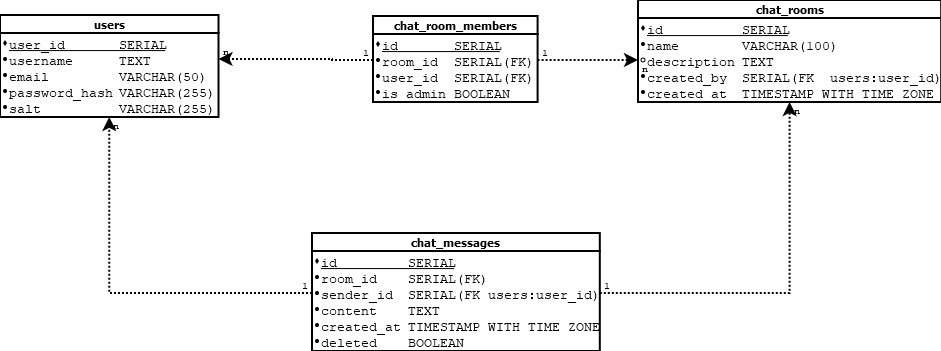
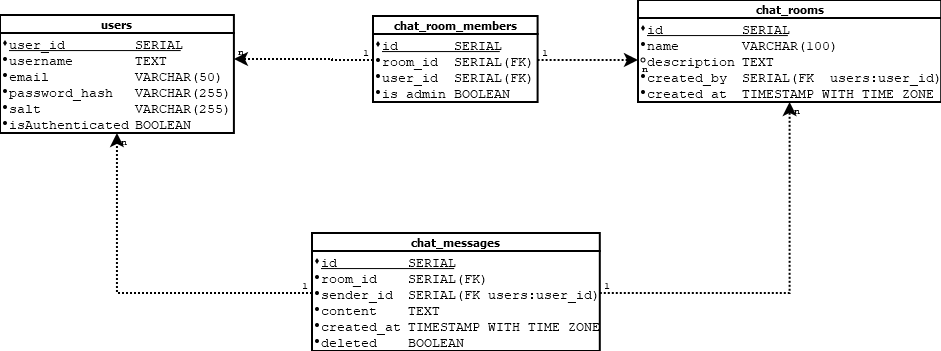
モデル定義

Changed region(s): [[0.0, 0.0285, 0.2774, 0.4274], [0.0925, 0.057, 0.1541, 0.0855]]

diff --git a/backend/src/main/java/com/example/chat_webapp/model/UsersModel.java b/backend/src/main/java/com/example/chat_webapp/model/UsersModel.java
@@ -1,0 +1,71 @@
+package com.example.chat_webapp.model;
+
+import jakarta.persistence.*;
+
+import java.security.NoSuchAlgorithmException;
+import java.security.spec.InvalidKeySpecException;
+import java.util.Base64;
+import java.util.UUID;
+
+import javax.crypto.SecretKeyFactory;
+import javax.crypto.spec.PBEKeySpec;
+
+@Entity
+@Table(name = "users")
+public class UsersModel {
+
+    @Id
+    @GeneratedValue(strategy = GenerationType.IDENTITY)
+    @Column(name = "user_id")
+    private Long userId;
+
+    @Column(nullable = false)
+    private String username;
+
+    @Column(nullable = false, length = 50)
+    private String email;
+
+    @Column(name = "password_hash", nullable = false, length = 255)
+    private String passwordHash;
+
+    @Column(length = 255)
+    private String salt;
+
+    @Column(name = "authenticated", nullable = false)
+    private boolean isAuthenticated = false;
+
+    private static final int ITERATIONS = 10000;
+    private static final int KEY_LENGTH = 256;
+
+    public UsersModel(String email, String password) {
+        this.email = email;
+        generateSalt();
+        this.passwordHash = hashPassword(password, salt);
+    }
+
+    // --- ソルト自動生成メソッド ---
+    public void generateSalt() {
+        this.salt = UUID.randomUUID().toString();
+    }
+
+    // ハッシュ化関数
+    private String hashPassword(String password, String saltBase64) {
+        try {
+            byte[] saltBytes = Base64.getDecoder().decode(saltBase64);
+            PBEKeySpec spec = new PBEKeySpec(password.toCharArray(), saltBytes, ITERATIONS, KEY_LENGTH);
+            SecretKeyFactory skf = SecretKeyFactory.getInstance("PBKDF2WithHmacSHA256");
+            byte[] hash = skf.generateSecret(spec).getEncoded();
+            return Base64.getEncoder().encodeToString(hash);
+        } catch (NoSuchAlgorithmException | InvalidKeySpecException e) {
+            throw new RuntimeException("Error while hashing password", e);
+        }
+    }
+
+    // パスワード検証用メソッド
+    public boolean verifyPassword(String rawPassword) {
+        String hashedInput = hashPassword(rawPassword, this.salt);
+        return hashedInput.equals(this.passwordHash);
+    }
+
+    // --- getter/setter省略可（Lombok可） ---
+}

diff --git a/backend/src/main/java/com/example/chat_webapp/model/ChatRoomMembersModel.java b/backend/src/main/java/com/example/chat_webapp/model/ChatRoomMembersModel.java
@@ -1,0 +1,23 @@
+package com.example.chat_webapp.model;
+
+import jakarta.persistence.*;
+
+@Entity
+@Table(name = "chat_room_members")
+public class ChatRoomMembersModel {
+
+    @Id
+    @GeneratedValue(strategy = GenerationType.IDENTITY)
+    private Long id;
+
+    @Column(name = "room_id", nullable = false)
+    private Long roomId;
+
+    @Column(name = "user_id", nullable = false)
+    private Long userId;
+
+    @Column(name = "is_admin", nullable = false)
+    private boolean isAdmin = false;
+
+    // getter/setter省略
+}

diff --git a/backend/src/main/java/com/example/chat_webapp/model/ChatMessagesModel.java b/backend/src/main/java/com/example/chat_webapp/model/ChatMessagesModel.java
@@ -1,0 +1,5 @@
+package com.example.chat_webapp.model;
+
+public class ChatMessagesModel {
+
+}

diff --git a/backend/src/main/java/com/example/chat_webapp/model/ChatRoomsModel.java b/backend/src/main/java/com/example/chat_webapp/model/ChatRoomsModel.java
@@ -1,0 +1,5 @@
+package com.example.chat_webapp.model;
+
+public class ChatRoomsModel {
+
+}
